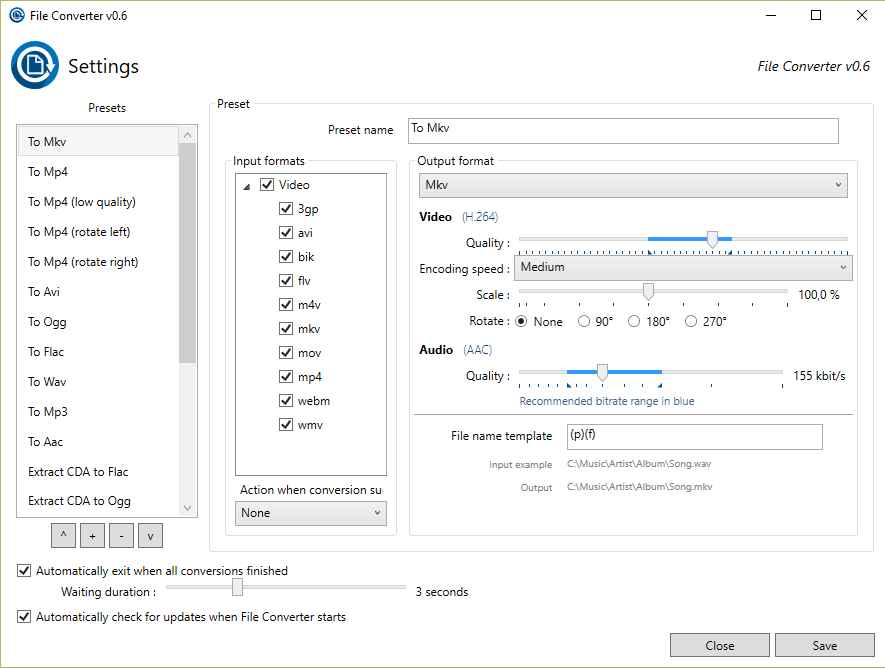
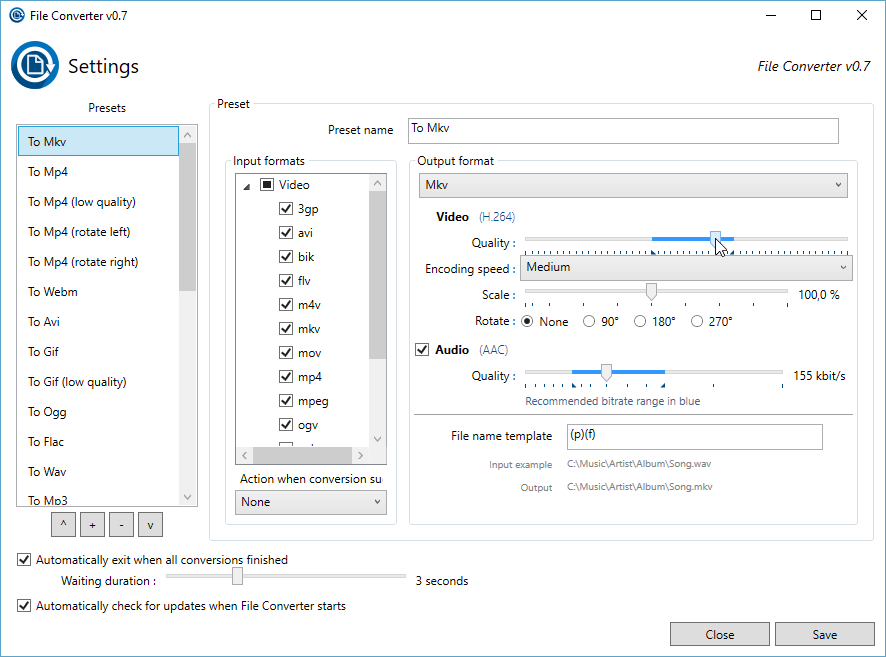
Update website for version 0.7

diff --git a/download.html b/download.html
@@ -7,7 +7,7 @@
     <link href='https://fonts.googleapis.com/css?family=Open+Sans:400,700' rel='stylesheet' type='text/css'>
     <link rel="stylesheet" type="text/css" href="stylesheets/stylesheet.css" media="screen">
     <link rel="stylesheet" type="text/css" href="stylesheets/github-light.css" media="screen">
-	<meta http-equiv="refresh" content="0; url=https://github.com/Tichau/FileConverter/releases/download/v0.6/FileConverter-0.6-x64-setup.msi" />
+	<meta http-equiv="refresh" content="0; url=https://github.com/Tichau/FileConverter/releases/download/v0.7/FileConverter-0.7-x64-setup.msi" />
     <link rel="icon" href="favicon.ico" />
 
     <script>
@@ -33,94 +33,110 @@
 
 <section class="main-content">    
     
-    <p>If the download do not start automaticaly, please follow this link: <a href="https://github.com/Tichau/FileConverter/releases/download/v0.6/FileConverter-0.6-x64-setup.msi">FileConverter-0.6-x64-setup.msi</a></p>
+    <p>If the download do not start automaticaly, please follow this link: <a href="https://github.com/Tichau/FileConverter/releases/download/v0.7/FileConverter-0.6-x64-setup.msi">FileConverter-0.6-x64-setup.msi</a></p>
     
     <h2>        
     <a id="change-log" class="anchor" href="#change-log" aria-hidden="true"><span class="octicon octicon-link"></span></a>Change Log</h2>
 
-    <h3>v0.6</h3>
+    <h3>Version 0.7</h3>
     <ul>
-    <li>New: Possibility to encode videos using H.264 video codec and AAC audio codec in a mp4 container (more portable than mkv).</li>
-    <li>New: Support new image input file formats: psd, tga, svg and exr.</li>
-    <li>New: Support new video input file format: m4v.</li>
-    <li>New: Possibility to rotate images and videos.</li>
-    <li>New: Remove restriction on image size to convert to ico file format (it is now possible to convert all images to ico).</li>
-    <li>New: Add "Clamp to power of 2 size" option in image conversion.</li>
-    <li>New: Support input images encoded in 16 bits or 32 bits per color channel.</li>
-    <li>Fixed: Issue where the installer detects the utilisation of the extension dll in explorer, ask the user to restart it and fail to do it.</li>
-    <li>Fixed: Issue where it is impossible to delete a conversion preset defined in default settings.</li>
-    <li>Fixed: Issue where the Windows context menu does not contain user preset after an application upgrade.</li>
-    <li>Fixed: Issue where some registry keys remain after file converter uninstallation.</li>
-    <li>Fixed: Issue where aac bitrate was not saved.</li>
-    <li>Fixed: Issue where settings serialization version was not updated.</li>
-    <li>Change: Allow the user to scale images until 1600% size (useful to scale pixel art images).</li>
+      <li>New: Possibility to encode videos using VP9 video codec and Ogg vorbis audio codec in a webm container.</li>
+      <li>New: Possibility to convert videos and images to gif.</li>
+      <li>New: Possibility to convert gif files to videos.</li>
+      <li>New: Possibility to remove audio from video files (mkv, mp4, avi and webm output file formats).</li>
+      <li>New: Add feedback to indicate that the application will automatically terminate (after conversions) (github issue #1).</li>
+      <li>New: Support new video input formats: ogv and mpeg.</li>
+      <li>New: Support new audio input format: oga.</li>
+      <li>New: Possibility to cancel some conversion jobs (gif/cda and image conversion jobs are not cancelable for now).</li>
+      <li>Fixed: Issue where video can't be compressed using H.264 codec (mp4 or mkv presets) when its size (width or height) is not divisible by 2 (append a lot when the user tries to scale a video) (github issue #2).</li>
+      <li>Fixed: Issue where "Clamp to power of 2 size" option didn't work well with images that already have a power of 2 size.</li>
+      <li>Fixed: Issue where conversion progress was not updated correctly (for converters based on ffmpeg).</li>
+      <li>Fixed: Issue where converting a video into the ogg format did not extract audio in an ogg file correctly.</li>
+      <li>Fixed: Issue where simultaneous read on the same CD drive was performed when files from differents conversions come from the same drive (other than cda extraction preset).</li>
+      <li>Fixed: Issue where the path generator was unable to create a valid path if the input file was at the root of a drive.</li>
+      <li>Tech: Annotate the conversion presets to know if there are default preset or user preset in order to improve the upgrade process.</li>
+    </ul>
+    
+    <h3>Version 0.6</h3>
+    <ul>
+      <li>New: Possibility to encode videos using H.264 video codec and AAC audio codec in a mp4 container (more portable than mkv).</li>
+      <li>New: Support new image input file formats: psd, tga, svg and exr.</li>
+      <li>New: Support new video input file format: m4v.</li>
+      <li>New: Possibility to rotate images and videos.</li>
+      <li>New: Remove restriction on image size to convert to ico file format (it is now possible to convert all images to ico).</li>
+      <li>New: Add "Clamp to power of 2 size" option in image conversion.</li>
+      <li>New: Support input images encoded in 16 bits or 32 bits per color channel.</li>
+      <li>Fixed: Issue where the installer detects the utilisation of the extension dll in explorer, ask the user to restart it and fail to do it.</li>
+      <li>Fixed: Issue where it is impossible to delete a conversion preset defined in default settings.</li>
+      <li>Fixed: Issue where the Windows context menu does not contain user preset after an application upgrade.</li>
+      <li>Fixed: Issue where some registry keys remain after file converter uninstallation.</li>
+      <li>Fixed: Issue where aac bitrate was not saved.</li>
+      <li>Fixed: Issue where settings serialization version was not updated.</li>
+      <li>Change: Allow the user to scale images until 1600% size (useful to scale pixel art images).</li>
     </ul>
 
-    <h3>v0.5</h3>
+    <h3>Version 0.5</h3>
     <ul>
-    <li>New: Software update system. The application now checks if a new version of File Converter is available.</li>
-    <li>New: Possibility to scale images and videos.</li> 
-    <li>New: Possibility to encode videos (avi output file format) using Xvid video codec and Mp3 audio codec.</li>
-    <li>New: Support new video input file formats: 3gp, webm and wmv.</li>
-    <li>New: Add a help window to explain how file converter works when you launch it without using the context menu.</li>
-    <li>Fixed: Problem to convert images when accentuated characters were present in their path.</li>
-    <li>Tech: Update ffmpeg version (aac encoding is not anymore experimental).</li>
+      <li>New: Software update system. The application now checks if a new version of File Converter is available.</li>
+      <li>New: Possibility to scale images and videos.</li> 
+      <li>New: Possibility to encode videos (avi output file format) using Xvid video codec and Mp3 audio codec.</li>
+      <li>New: Support new video input file formats: 3gp, webm and wmv.</li>
+      <li>New: Add a help window to explain how file converter works when you launch it without using the context menu.</li>
+      <li>Fixed: Problem to convert images when accentuated characters were present in their path.</li>
+      <li>Tech: Update ffmpeg version (aac encoding is not anymore experimental).</li>
     </ul>
 
-    <h3>v0.4</h3>
+    <h3>Version 0.4</h3>
     <ul>
-    <li>New: Possibility to encode videos (mkv output file format) using H.264 video codec and AAC audio codec.</li>
-    <li>New: Possibility to extract Audio CD content.</li>
-    <li>New: Possibility to encode audio in aac format.</li>
-    <li>New: Possibility to encode images (png, jpg and ico formats).</li>
-    <li>New: Support new audio input file format: aac</li>
-    <li>New: Support new video input file formats: bik, flv, mov, mkv</li>
-    <li>New: Support new image input file formats: bmp, tiff, png, jpg and ico.</li>
-    <li>New: Multi-thread conversion (file converter will now start multiple conversions at the time depending on your number of cores).</li>
-    <li>New: Copy the currently selected preset when clicking on the add preset button.</li>
-    <li>New: Add “My Documents”, “My Music”, “My Videos” and “My Pictures” folder to output file name generator.</li>
-    <li>New: Possibility to choose if the application quit after succeeded conversions.</li>
-    <li>Fixed: Reordering presets does not update the registry.</li>
-    <li>Fixed: Merge default settings with user settings to prevent errors when upgrading the application.</li>
-    <li>Tech: Handle incorrect user settings case.</li>
-    <li>Tech: Improve diagnostics system (compatibility with logs from multiple threads, dump files in AppData folder and error messages).</li>
-    <li>Tech: Update ffmpeg version.</li>
+      <li>New: Possibility to encode videos (mkv output file format) using H.264 video codec and AAC audio codec.</li>
+      <li>New: Possibility to extract Audio CD content.</li>
+      <li>New: Possibility to encode audio in aac format.</li>
+      <li>New: Possibility to encode images (png, jpg and ico formats).</li>
+      <li>New: Support new audio input file format: aac</li>
+      <li>New: Support new video input file formats: bik, flv, mov, mkv</li>
+      <li>New: Support new image input file formats: bmp, tiff, png, jpg and ico.</li>
+      <li>New: Multi-thread conversion (file converter will now start multiple conversions at the time depending on your number of cores).</li>
+      <li>New: Copy the currently selected preset when clicking on the add preset button.</li>
+      <li>New: Add “My Documents”, “My Music”, “My Videos” and “My Pictures” folder to output file name generator.</li>
+      <li>New: Possibility to choose if the application quit after succeeded conversions.</li>
+      <li>Fixed: Reordering presets does not update the registry.</li>
+      <li>Fixed: Merge default settings with user settings to prevent errors when upgrading the application.</li>
+      <li>Tech: Handle incorrect user settings case.</li>
+      <li>Tech: Improve diagnostics system (compatibility with logs from multiple threads, dump files in AppData folder and error messages).</li>
+      <li>Tech: Update ffmpeg version.</li>
     </ul>
 
-    <h3>v0.3</h3>
-
+    <h3>Version 0.3</h3>
     <ul>
-    <li>New: Possibility to extract audio from videos.</li>
-    <li>New: Support new input file formats: aiff, m4a, avi, mp4.</li>
-    <li>New: Quality settings for Mp3 (Encoding mode vbr/cbr and bitrate).</li>
-    <li>New: Quality settings for Ogg (Bitrate).</li>
-    <li>New: Quality settings for Wav (bits per sample: 8, 16, 24 or 32).</li>
-    <li>New: Add output file path template system.</li>
-    <li>New: Add button to move up or down a preset.</li>
-    <li>New: Add input files post conversion action (No action, move in archive folder or delete).</li>
-    <li>New: Add categories on input file extensions.</li>
-    <li>Fixed: Lose focus of main window don't terminate the application.</li>
-    <li>Fixed: The application icon now have a correct resolution at any size.</li>
-    <li>Tech: Add error codes on error messages.</li>
+      <li>New: Possibility to extract audio from videos.</li>
+      <li>New: Support new input file formats: aiff, m4a, avi, mp4.</li>
+      <li>New: Quality settings for Mp3 (Encoding mode vbr/cbr and bitrate).</li>
+      <li>New: Quality settings for Ogg (Bitrate).</li>
+      <li>New: Quality settings for Wav (bits per sample: 8, 16, 24 or 32).</li>
+      <li>New: Add output file path template system.</li>
+      <li>New: Add button to move up or down a preset.</li>
+      <li>New: Add input files post conversion action (No action, move in archive folder or delete).</li>
+      <li>New: Add categories on input file extensions.</li>
+      <li>Fixed: Lose focus of main window don't terminate the application.</li>
+      <li>Fixed: The application icon now have a correct resolution at any size.</li>
+      <li>Tech: Add error codes on error messages.</li>
     </ul>
 
-    <h3>v0.2</h3>
-
+    <h3>Version 0.2</h3>
     <ul>
-    <li>New: Support new input file format: ape.</li>
-    <li>New: Add notion of conversion preset (in order to customize the conversion possibilities).</li>
-    <li>New: Add settings window to edit conversion presets.</li>
-    <li>New: Add application icon.</li>
-    <li>New: Customize application installer.</li>
-    <li>New: Add diagnostic window to read the application logs.</li>
+      <li>New: Support new input file format: ape.</li>
+      <li>New: Add notion of conversion preset (in order to customize the conversion possibilities).</li>
+      <li>New: Add settings window to edit conversion presets.</li>
+      <li>New: Add application icon.</li>
+      <li>New: Customize application installer.</li>
+      <li>New: Add diagnostic window to read the application logs.</li>
     </ul>
 
-    <h3>v0.1</h3>
-
+    <h3>Version 0.1</h3>
     <ul>
-    <li>New: Add decode support for file formats Mp3, Ogg, Wav, Flac, Wma </li>
-    <li>New: Add encode support for file formats Mp3, Ogg, Wav, Flac</li>
-    <li>New: UI to visualize the conversion progress</li>
+      <li>New: Add decode support for file formats Mp3, Ogg, Wav, Flac, Wma </li>
+      <li>New: Add encode support for file formats Mp3, Ogg, Wav, Flac</li>
+      <li>New: UI to visualize the conversion progress</li>
     </ul>
 
     <footer class="site-footer">

diff --git a/index.html b/index.html
@@ -24,7 +24,7 @@
     <section class="page-header">
       <a href="index.html"><img src="images/application-icon.png" height="128" width="128" /></a>
       <h1 class="project-name">File Converter</h1>
-      <h2 class="project-tagline">File Converter is a very simple tool who allows you to convert one or several file(s) using the context menu in windows explorer.</h2>
+      <h2 class="project-tagline">Convert & compress everything in 2 clicks!</h2>
       <a href="https://github.com/Tichau/FileConverter" class="btn">View on GitHub</a>
       <a href="download.html" class="btn btn-highlight">Download</a>
       <a href="https://github.com/Tichau/FileConverter/wiki" class="btn">Documentation</a>
@@ -36,7 +36,7 @@
             Description
         </h2>
 
-        <p><strong>File Converter</strong> is a very simple tool which allows you to convert one or several file(s) using the context menu in windows explorer.</p>
+        <p><strong>File Converter</strong> is a very simple tool which allows you to convert and compress one or several file(s) using the context menu in windows explorer.</p>
 
         <img src="images/screenshot1.png" />
 
@@ -53,18 +53,18 @@
         <tbody>
             <tr>
             <td>Audio</td>
-            <td>3gp, aiff, ape, avi, bik, cda, flac, flv, m4a, mkv, mov, mp3, mp4, ogg, wav, webm, wma, wmv</td>
+            <td>3gp, aiff, ape, avi, bik, cda, flac, flv, m4a, mkv, mov, mp3, mp4, oga, ogg, wav, webm, wma, wmv</td>
             <td>flac, aac, ogg, mp3, wav</td>
             </tr>
             <tr>
             <td>Video</td>
-            <td>3gp, avi, bik, flv, m4v, mkv, mp4, mov, webm, wmv</td>
-            <td>mkv, mp4, avi</td>
+            <td>3gp, avi, bik, flv, gif, m4v, mkv, mp4, mpeg, mov, ogv, webm, wmv</td>
+            <td>webm, mkv, mp4, avi, gif</td>
             </tr>
             <tr>
             <td>Image</td>
             <td>bmp, exr, ico, jpg, jpeg, png, psd, svg, tiff, tga</td>
-            <td>png, jpg, ico</td>
+            <td>png, jpg, ico, gif</td>
             </tr>
         </tbody>
         </table>
@@ -87,8 +87,8 @@
         Downloads
         </h2>
 
-        <p>Windows 64 bits installer: <a href="download.html">FileConverter-0.6-x64-setup.msi</a> (~16 Mo)</p>
-        <p>Sources (C#/WPF project): <a href="https://github.com/Tichau/FileConverter/tarball/master">FileConverter-v0.6.tar.gz</a> (~11 Mo)</p>
+        <p>Windows 64 bits installer: <a href="download.html">FileConverter-0.7-x64-setup.msi</a> (~26 Mo)</p>
+        <p>Sources (C#/WPF project): <a href="https://github.com/Tichau/FileConverter/tarball/master">FileConverter-v0.7.tar.gz</a> (~14 Mo)</p>
 
       <footer class="site-footer">
         <span class="site-footer-owner"><a href="https://github.com/Tichau/FileConverter">File Converter</a> is maintained by <a href="https://github.com/Tichau">Adrien Allard</a>.</span>
